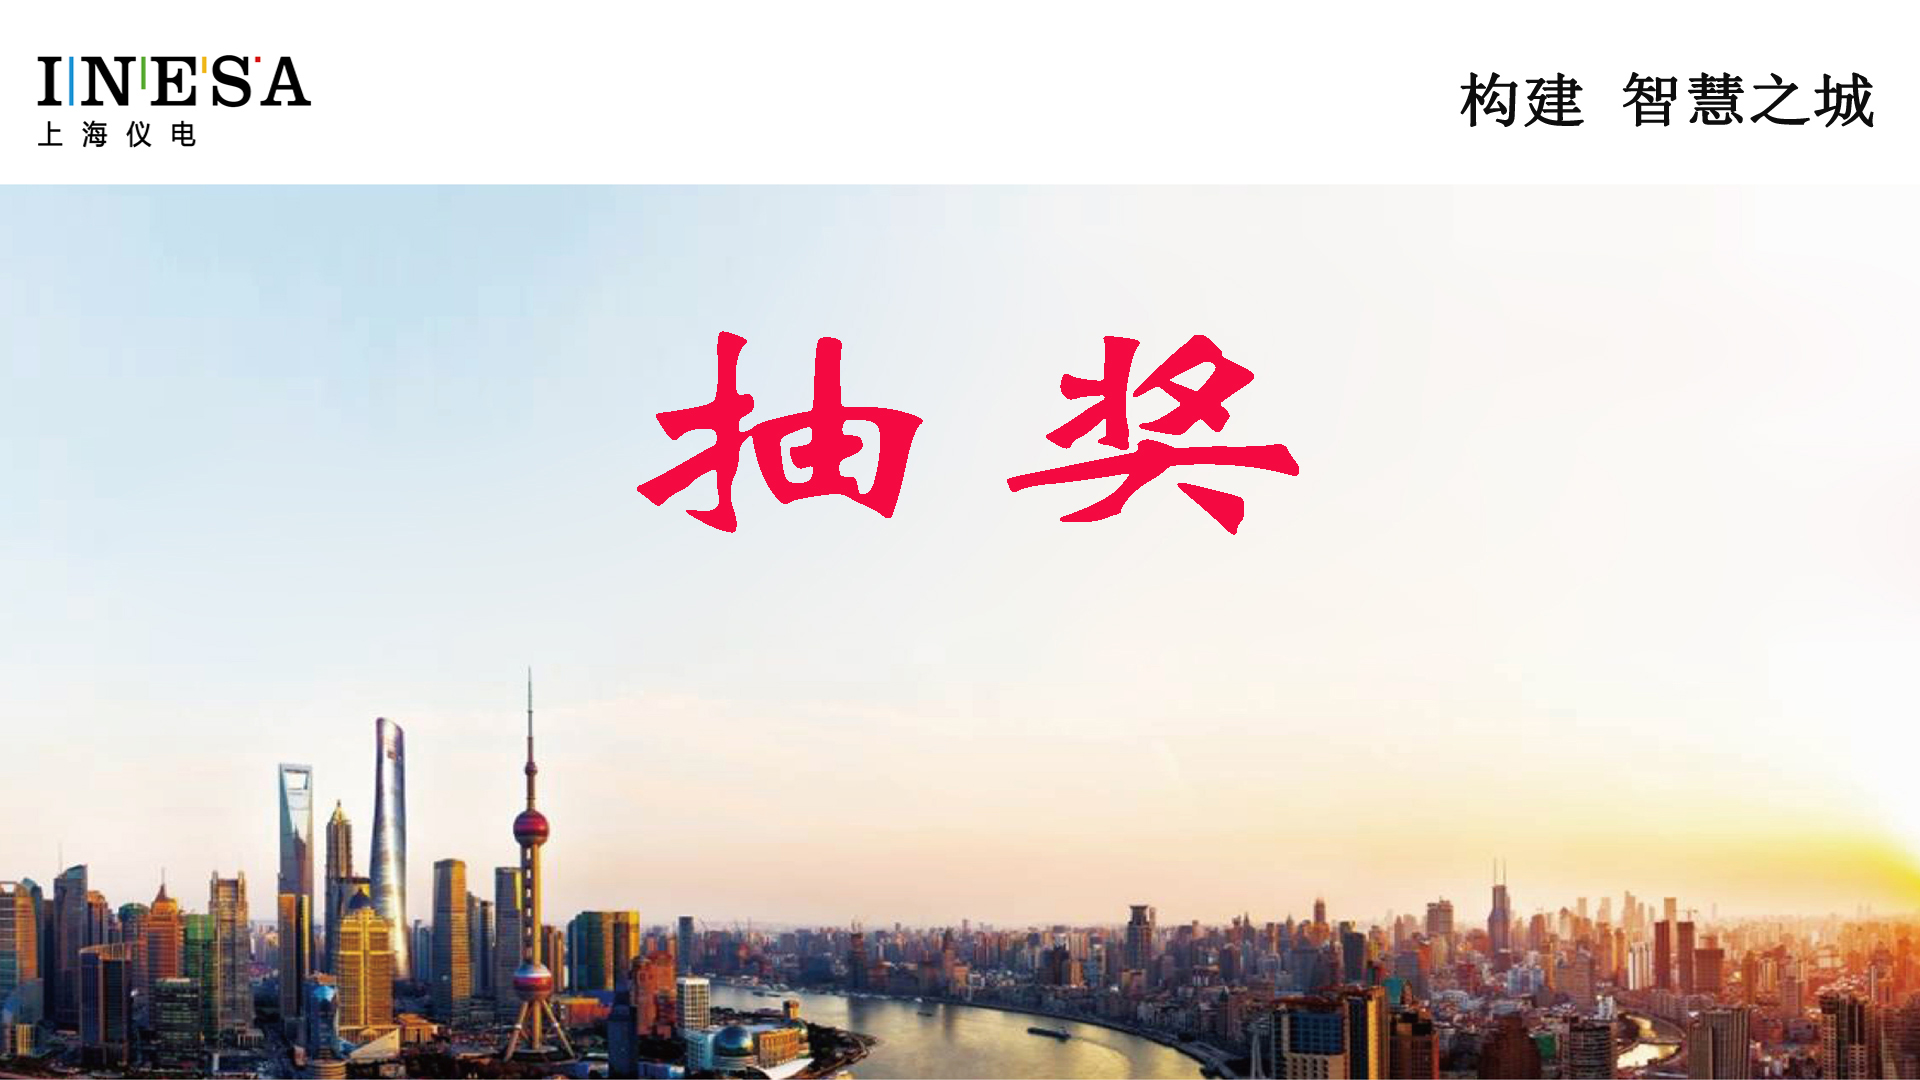
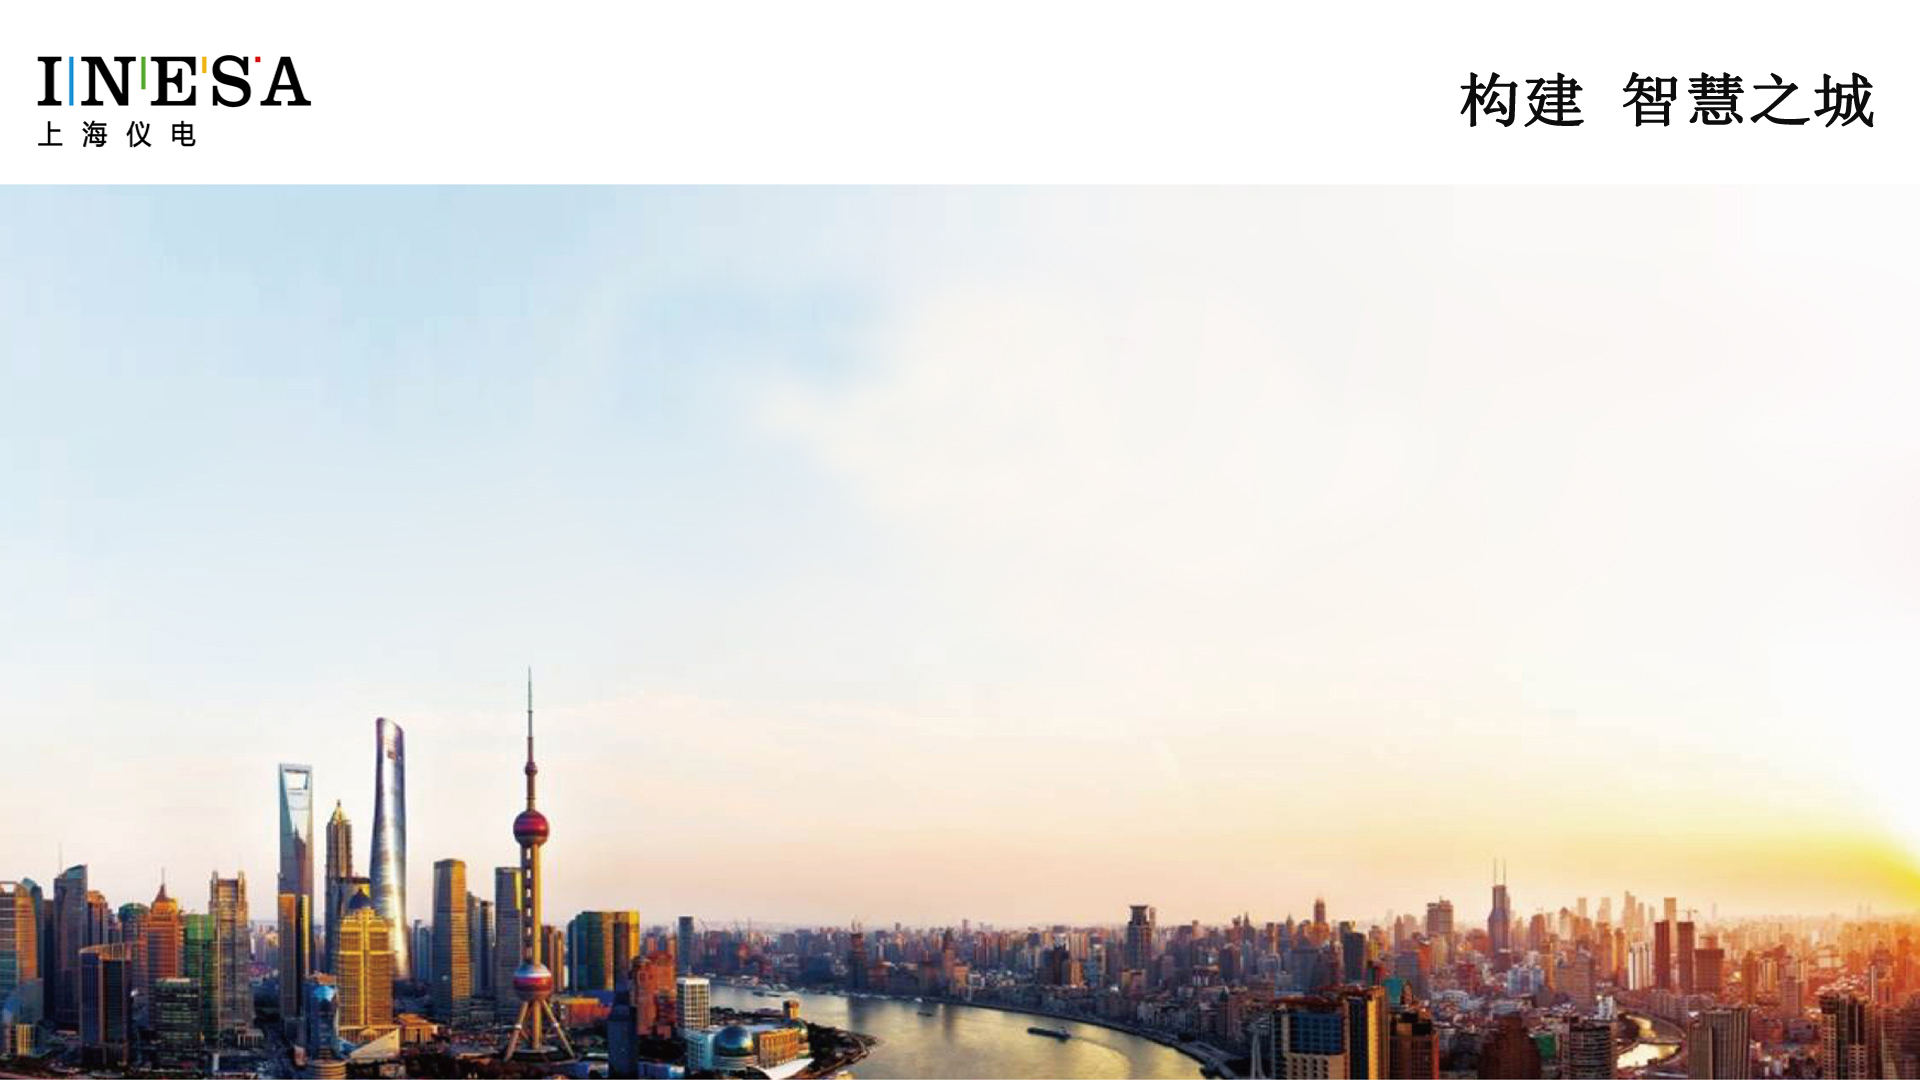
‘第二次更改 q git commit -m ‘第二次更改

Changed region(s): [[0.5312, 0.3056, 0.6875, 0.4889], [0.3125, 0.3056, 0.5, 0.4889]]

diff --git a/choujiang/js/index.js b/choujiang/js/index.js
@@ -1,88 +1,109 @@
-$(function(){
-		var alldata = new Array("image/1.jpg","image/2.jpg","image/3.jpg","image/4.jpg","image/5.jpg","image/6.jpg","image/7.jpg","image/8.jpg","image/9.jpg","image/10.jpg","image/11.jpg","image/12.jpg","image/13.jpg","image/14.jpg","image/15.jpg","image/16.jpg","image/17.jpg","image/18.jpg","image/19.jpg","image/20.jpg","image/21.jpg","image/22.jpg","image/23.jpg","image/24.jpg","image/25.jpg","image/26.jpg","image/27.jpg","image/28.jpg","image/29.jpg","image/30.jpg","image/31.jpg","image/32.jpg","image/33.jpg","image/34.jpg","image/35.jpg","image/36.jpg","image/37.jpg","image/38.jpg","image/39.jpg","image/40.jpg","image/41.jpg","image/42.jpg","image/43.jpg","image/44.jpg","image/45.jpg","image/46.jpg","image/47.jpg","image/48.jpg","image/49.jpg","image/50.jpg","image/51.jpg","image/52.jpg","image/53.jpg","image/54.jpg","image/55.jpg","image/56.jpg","image/57.jpg","image/58.jpg","image/59.jpg","image/60.jpg","image/61.jpg","image/62.jpg","image/63.jpg","image/64.jpg","image/65.jpg","image/66.jpg","image/67.jpg","image/68.jpg","image/69.jpg","image/70.jpg","image/71.jpg","image/72.jpg","image/73.jpg","image/74.jpg","image/75.jpg","image/76.jpg","image/77.jpg","image/78.jpg","image/79.jpg","image/80.jpg");
+$(function() {
+	$(".button").click(function() {
+		$(".choujiang").hide();
+		$(".show").show();
+		//抽奖js--begin
+//		var alldata = new Array("image/2.jpg","image/4.jpg", "image/7.jpg","image/60.jpg");
+//		var prizeArray = new Array("image/2.jpg", "image/7.jpg");
 
-		var imageName = new Array("#img1","#img2","#img3","#img4","#img5","#img6");
-		var prizeArray = new Array("image/2.jpg","image/7.jpg","image/16.jpg","image/31.jpg","image/33.jpg","image/35.jpg","image/37.jpg","image/44.jpg","image/49.jpg","image/54.jpg","image/58.jpg","image/60.jpg");
-		//name.substring(name.indexOf('/')+1, name.indexOf('.'))
-		var nameNum = imageName.length - 1;
+//		alldata：储存所有图片
+		var alldata = new Array(
+			"image/1.jpg", "image/2.jpg", "image/3.jpg", "image/4.jpg", "image/5.jpg", 
+			"image/6.jpg", "image/7.jpg", "image/8.jpg", "image/9.jpg", "image/10.jpg", 
+			"image/11.jpg", "image/12.jpg", "image/13.jpg", "image/14.jpg", "image/15.jpg", 
+			"image/16.jpg", "image/17.jpg", "image/18.jpg", "image/19.jpg", "image/20.jpg", 
+			"image/21.jpg", "image/22.jpg", "image/23.jpg", "image/24.jpg", "image/25.jpg", 
+			"image/26.jpg", "image/27.jpg", "image/28.jpg", "image/29.jpg", "image/30.jpg", 
+			"image/31.jpg", "image/32.jpg", "image/33.jpg", "image/34.jpg", "image/35.jpg", 
+			"image/36.jpg", "image/37.jpg", "image/38.jpg", "image/39.jpg", "image/40.jpg", 
+			"image/41.jpg", "image/42.jpg", "image/43.jpg", "image/44.jpg", "image/45.jpg", 
+			"image/46.jpg", "image/47.jpg", "image/48.jpg", "image/49.jpg", "image/50.jpg", 
+			"image/51.jpg", "image/52.jpg", "image/53.jpg", "image/54.jpg", "image/55.jpg", 
+			"image/56.jpg", "image/57.jpg", "image/58.jpg", "image/59.jpg", "image/60.jpg", 
+			"image/61.jpg", "image/62.jpg", "image/63.jpg", "image/64.jpg", "image/65.jpg", 
+			"image/66.jpg", "image/67.jpg", "image/68.jpg", "image/69.jpg", "image/70.jpg", 
+			"image/71.jpg", "image/72.jpg", "image/73.jpg", "image/74.jpg", "image/75.jpg", 
+			"image/76.jpg", "image/77.jpg", "image/78.jpg", "image/79.jpg", "image/80.jpg"
+			);
+			
+//      prizeArray ：储存中奖图片(包含一等奖，二等奖，三等奖)
+		var prizeArray = new Array(
+			"image/2.jpg", "image/7.jpg", "image/16.jpg",
+			"image/31.jpg", "image/33.jpg", "image/35.jpg",
+			"image/37.jpg", "image/44.jpg", "image/49.jpg", 
+			"image/54.jpg", "image/58.jpg", "image/60.jpg"
+			);
+			
 		var num = alldata.length - 1;
 		var show = $("#image");
-		var btn = $("#btn");
+//		var btn = $("#btn");
 		var open = false;
-			
-		function change(){
-			var randomVal = Math.round(Math.random() * num);
+
+		function change() {
+			var randomVal = Math.round(Math.random() * num);//数字舍入为最接近的整数。如：0.49为0
 			var prizeName = alldata[randomVal];
-			//show.text(prizeName);
-			show.attr("src",prizeName);
+			console.log("prizeName:"+prizeName);
+			show.attr("src", prizeName);
 		}
-		
+
 		Array.prototype.indexOf = function(val) {
-			for (var i = 0; i < this.length; i++) {
-				if (this[i] == val) return i;
-				}
-					return -1;
-			};
+			for(var i = 0; i < this.length; i++) {
+				if(this[i] == val) return i;
+			}
+			return -1;
+		};
 
 		Array.prototype.remove = function(val) {
 			var index = this.indexOf(val);
-				if (index > -1) {
-					this.splice(index, 1);
-				}
-			};
-
-		function run(){
-			if(!open){
-				<!-- 指定函数出现的速度，以毫秒计算-->
-				timer=setInterval(change,20);
-				$("#myaudio").attr("src","mp3/fail.mp3"); 
+			if(index > -1) {
+				this.splice(index, 1);
+			}
+		};
+		
+		function run() {
+			if(!open) {
+//				指定函数出现的速度，以毫秒计算
+				timer = setInterval(change, 30);
+				$("#myaudio").attr("src", "mp3/fail.mp3");
 				$("#myaudio")[0].play();
-				//btn.removeClass('start').addClass('stop').text('停止');
 				open = true;
-			}else{
-				var height = $(imageName[nameNum]).css("height");
-				var width = $(imageName[nameNum]).css("width");
-				
+			} else {
 				var name = $("#image").attr("src");
-				var imgClone = $("#image").clone(true).css("opacity",'0.7');
+				var imgClone = $("#image").clone(true).css("opacity", '0.7');
 				alldata.remove(name);
 
-				if($.inArray(name, prizeArray) != -1){
+				if($.inArray(name, prizeArray) != -1) {
 					$("#myaudio")[0].pause();
-					$("#myaudio").attr("src","mp3/win.mp3"); 
+					$("#myaudio").attr("src", "mp3/win.mp3");
 					$("#myaudio")[0].play();
 					prizeArray.remove(name);
 					console.log(prizeArray.length);
-					$("span.up").html(prizeArray.length);
+					$("span.up").html("恭喜您，余:"+prizeArray.length);
+					$("span.up").css("color","red");
 					console.log("win");
 
-				}else{
+				} else {
 					$("#myaudio")[0].pause();
-					$("span.up").html("未中奖");
+					$("span.up").html("遗憾，未中奖");
+					$("span.up").css("color","black");
 					console.log("fail");
 				}
-				if(prizeArray.length == 0){
+				if(prizeArray.length == 0) {
 					alert("抽奖结束！");
 				}
-//				 imgClone.css({ "position": "absolute", "top": "50px", "left": "50px"});
-//				 $("#imgDiv").parent().append(imgClone);
-//				 imgClone.animate({height:"150px",width:"150px"},400);
-//				 imgClone.animate({left:$(imageName[nameNum]).offset().left,top:$(imageName[nameNum]).offset().top},600);
-//				 imgClone.animate({height:height,width:width},350,function(){
-//				 		$(imageName[nameNum]).attr("src",name);
-//				 		nameNum = nameNum - 1;
-//				 	});
 				clearInterval(timer);
-				//btn.removeClass('stop').addClass('start').text('开始抽奖');
 				open = false;
 			}
 		}
-		//btn.click(function(){run();})
-		$(document).keyup(function(e){
-			if(!e) var e = window.event; 
-			if(e.keyCode==32){
-					run();
-				}
-			});
-				 
+		$(document).keyup(function(e) {
+			$("span.up").html("");
+			if(!e) var e = window.event;
+			if(e.keyCode == 32) {
+				run();
+			}
+		});
+
+		//end
 	})
+
+})

diff --git a/choujiang/css/index.css b/choujiang/css/index.css
@@ -2,10 +2,73 @@
 	padding: 0;
 	margin: 0;
 }
-html{
+
+
+html {
 	width: 100%;
 	height: 100%;
-	background: url(../image/bg2.jpg) no-repeat center center fixed;background-size: 100% 100%;
+	background: url(../image/bg2.jpg) no-repeat center center fixed;
+	background-size: 100% 100%;
+}
+
+.choujiang {
+	position: absolute;
+	height: 16%;
+	left: 38%;
+	right: 38%;
+	top: 20%;
+	color: red;
+	font-size: 115px;
+	text-align: center;
+	-moz-user-select: none;
+	-webkit-user-select: none;
+}
+
+.begin {
+	font-size: 23px;
+	margin-top: 23px;
+	display: block;
+	width: 170px;
+}
+.button {
+	display: inline-block;
+	zoom: 1;
+	margin: 0 2px;
+	outline: none;
+	cursor: pointer;
+	text-align: center;
+	text-decoration: none;
+	padding: .5em 2em .55em;
+	text-shadow: 0 1px 1px rgba(0, 0, 0, .3);
+	border-radius: .5em;
+	box-shadow: 0 1px 2px rgba(0, 0, 0, .2);
+}
+
+.button:hover {
+	text-decoration: none;
+}
+
+.button:active {
+	position: relative;
+	top: 1px;
+}
+
+.bigrounded {
+	border-radius: 2em;
+}
+
+.blue {
+	color: #d9eef7;
+	border: solid 1px #0076a3;
+	background: #0095cd;
+}
+
+.blue:hover {
+	background: #007ead;
+}
+
+.blue:active {
+	color: #80bed6;
 }
 
 .wrap {
@@ -14,24 +77,21 @@ html{
 }
 
 .show {
-    position: absolute;
-    /* width: 40%; */
-    height: 51%;
-    left: 38%;
-    right: 38%;
-    top: 50%;
-    /* margin-left: -25%; */
-    margin-top: -15%;
-    background: pink;
-    padding-top: 1%;
-    
-    
+	position: absolute;
+	display: none;
+	height: 51%;
+	left: 38%;
+	right: 38%;
+	top: 50%;
+	margin-top: -15%;
+	padding-top: 1%;
 }
-#imgDiv{
-	    width: 100%;
-    height: 90%;
-    background: blue;
-    margin-top: 5%;
+
+#imgDiv {
+	width: 100%;
+	height: 90%;
+	background: blue;
+	margin-top: 5%;
 }
 
 .btn a {
@@ -72,15 +132,15 @@ img {
 	border: 0
 }
 
-em {
-	position: relative;
-    left: 23px;
-    font-size: 34px;
+.em {
+    position: relative;
+    font-size: 23px;
     font-family: '黑体';
-    text-align: center;
-    margin-left: 12%;
+    margin-left: 3%;
+    color: deeppink;
 }
 
 .up {
-	font-size: 30px;
+	font-size: 28px;
+	color: red;
 }

diff --git a/choujiang/index.html b/choujiang/index.html
@@ -9,9 +9,11 @@
 	</head>
 	<body>
 	<div class="top">
-		<!--<img class="back" src="image/bg2.jpg" width="100%;" height="100%">-->
+		<div class="choujiang">抽奖
+			<span class="begin button blue bigrounded">开始抽奖</span>
+		</div>
 		<div class="show" id="show" >
-			<em>点击空格键开始抽奖-(<span class="up">12</span>)</em>
+			<div class="em">请点击空格键--(<span class="up">余：12</span>)</div>
 			<div id="imgDiv">
 					<img src="image/1.jpg" id="image" height="100%" width="100%">
 			</div>
